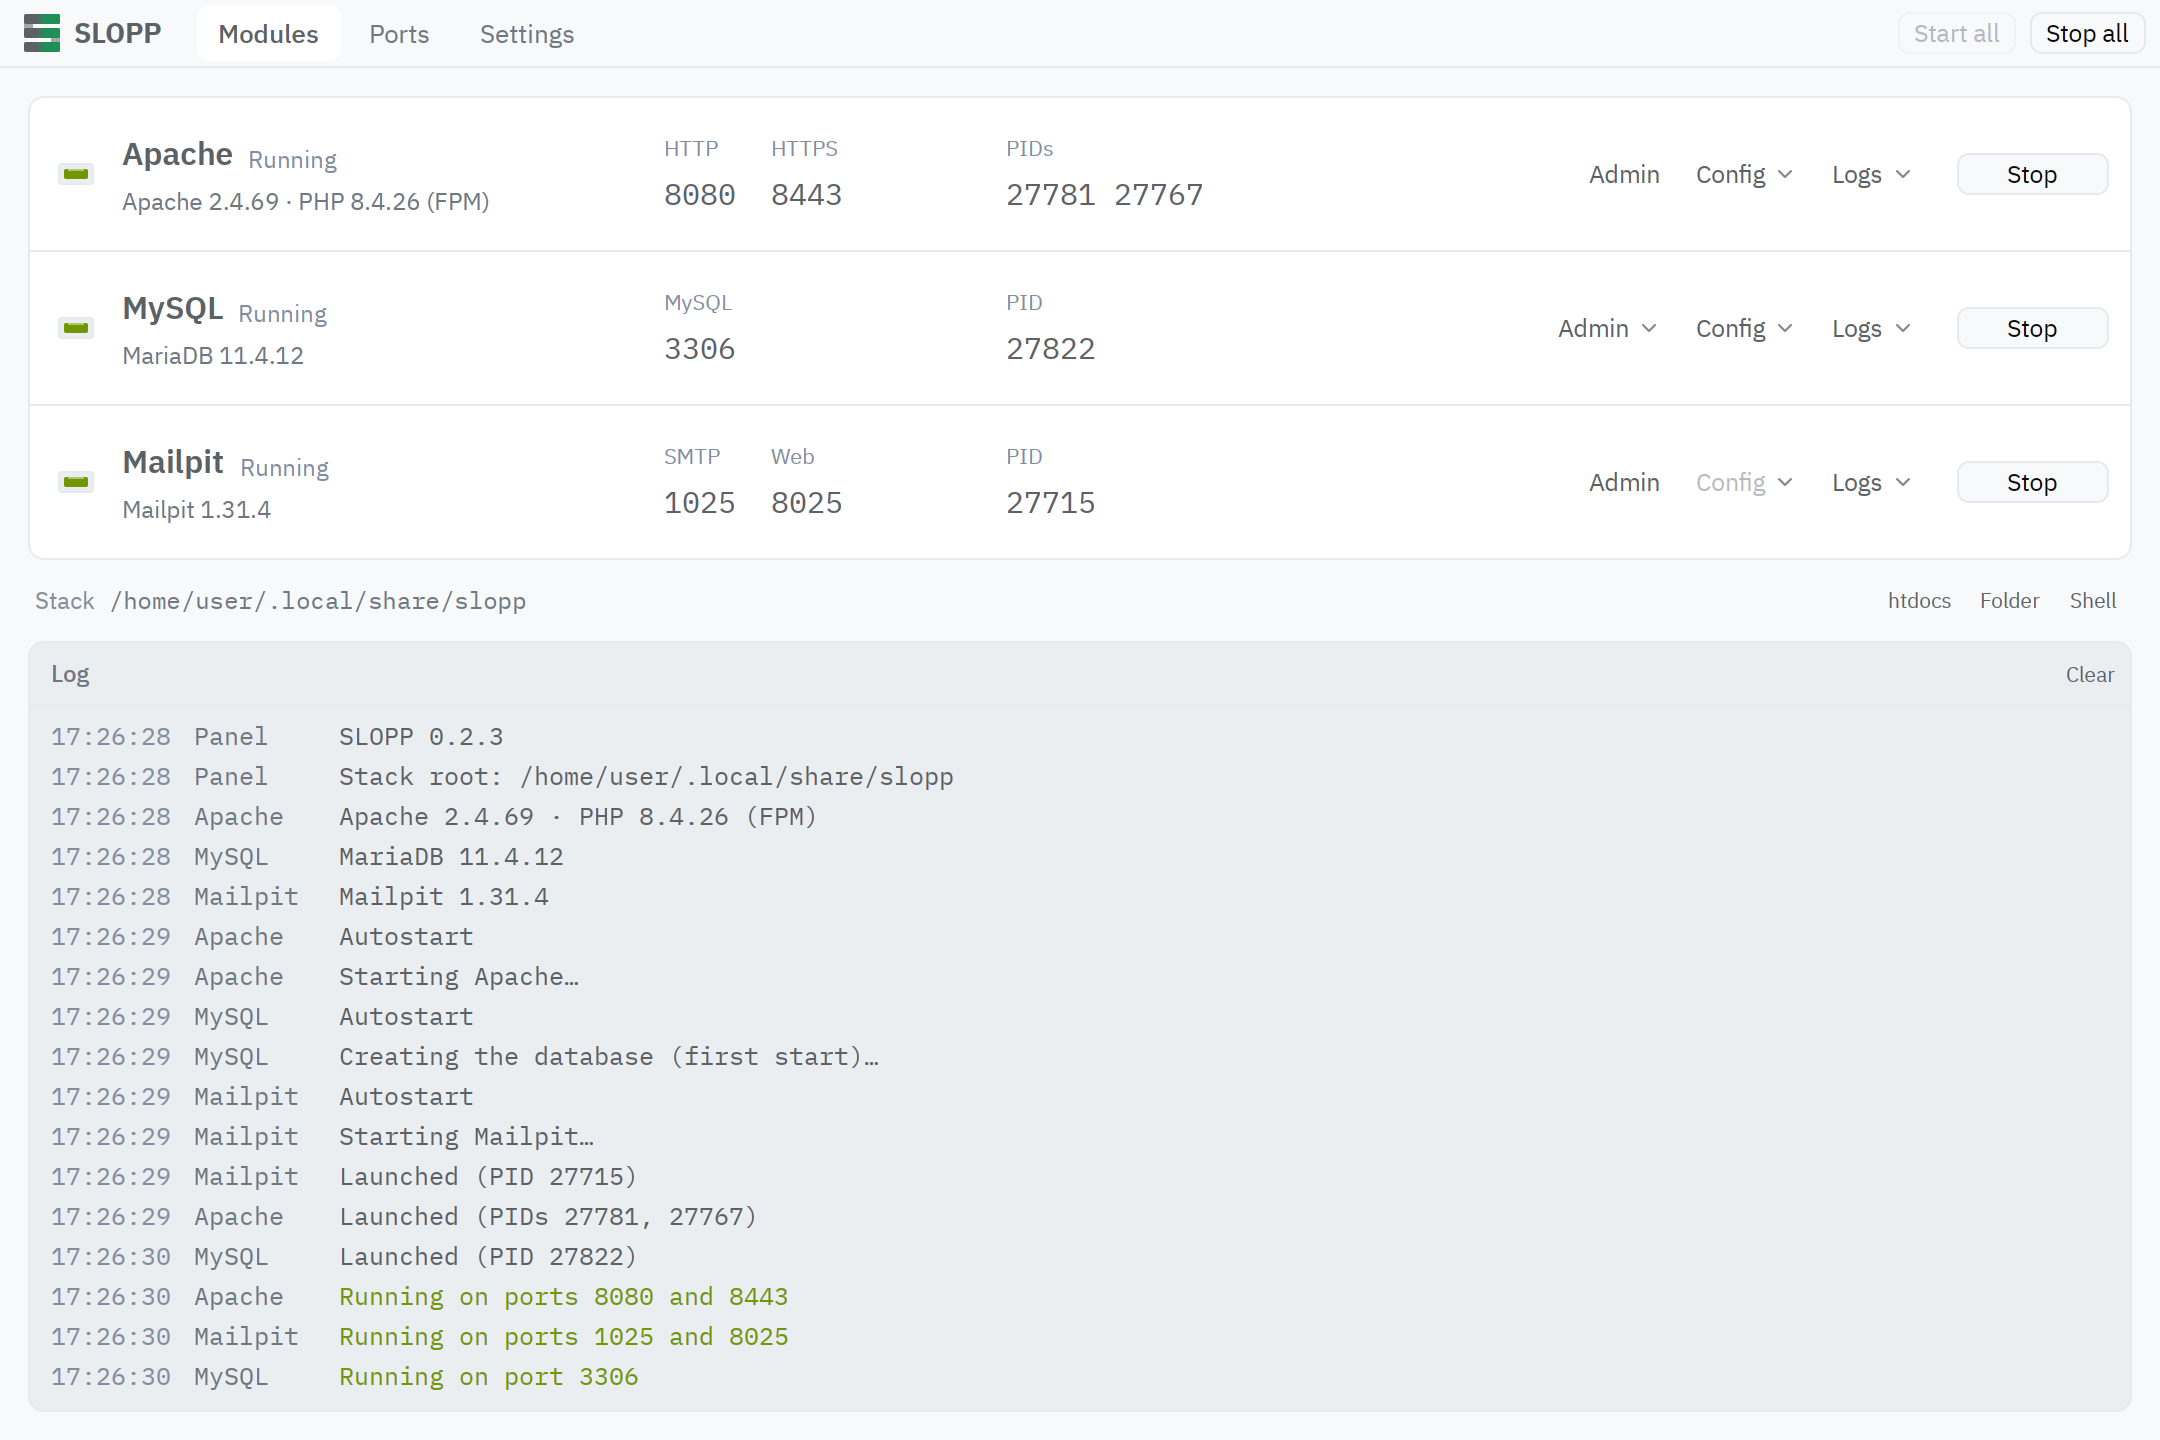
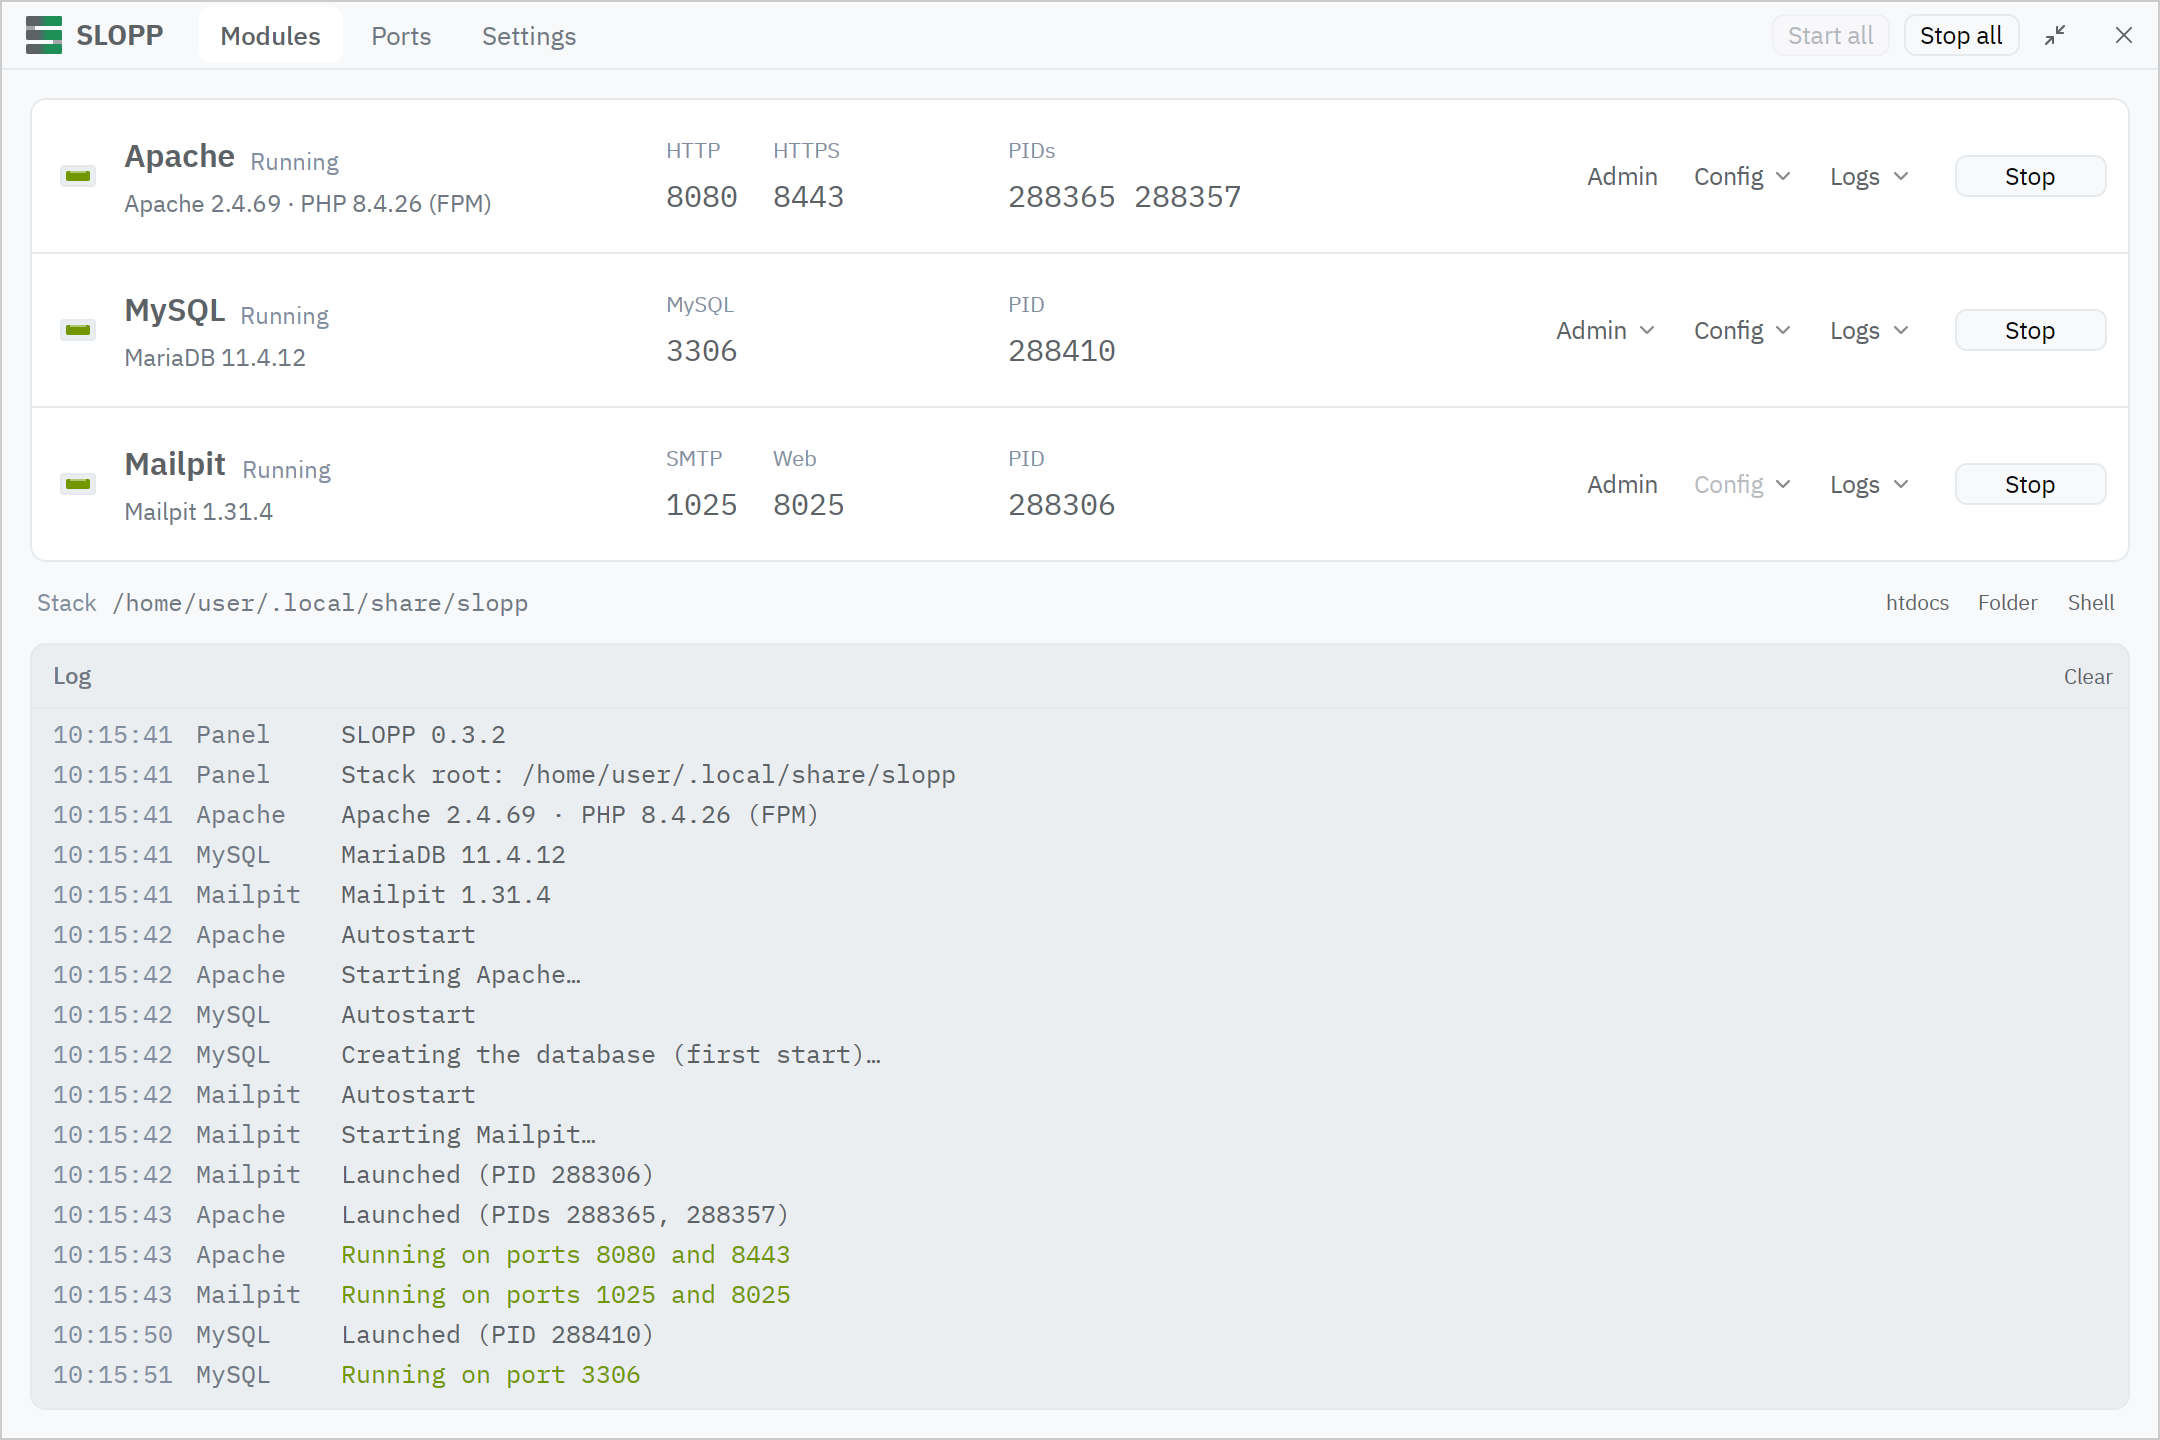
Refresh the site's screenshots for 0.3.2

diff --git a/site/index.html b/site/index.html
@@ -652,8 +652,8 @@ footer a { color: var(--text-2); }
         </div>
         <div class="content">
           <figure class="shot">
-            <a class="dark" href="panel-dark.png" title="Open full size"><img src="panel-dark.png" width="2160" height="1440" loading="lazy" alt="The SLOPP window in its dark appearance: Apache running on ports 8080 and 8443 with PHP 8.4 through PHP-FPM, MySQL running MariaDB on port 3306, Mailpit on ports 1025 and 8025, the stack folder, and a log of the start."></a>
-            <a class="light" href="panel-light.png" title="Open full size"><img src="panel-light.png" width="2160" height="1440" loading="lazy" alt="The SLOPP window in its light appearance: Apache running on ports 8080 and 8443 with PHP 8.4 through PHP-FPM, MySQL running MariaDB on port 3306, Mailpit on ports 1025 and 8025, the stack folder, and a log of the start."></a>
+            <a class="dark" href="panel-dark.png?v=0.3.2" title="Open full size"><img src="panel-dark.png?v=0.3.2" width="2160" height="1440" loading="lazy" alt="The SLOPP window in its dark appearance: Apache running on ports 8080 and 8443 with PHP 8.4 through PHP-FPM, MySQL running MariaDB on port 3306, Mailpit on ports 1025 and 8025, the stack folder, and a log of the start."></a>
+            <a class="light" href="panel-light.png?v=0.3.2" title="Open full size"><img src="panel-light.png?v=0.3.2" width="2160" height="1440" loading="lazy" alt="The SLOPP window in its light appearance: Apache running on ports 8080 and 8443 with PHP 8.4 through PHP-FPM, MySQL running MariaDB on port 3306, Mailpit on ports 1025 and 8025, the stack folder, and a log of the start."></a>
           </figure>
           <p class="shot-hint">Tap it for full size.</p>
         </div>

diff --git a/CLAUDE.md b/CLAUDE.md
@@ -28,7 +28,7 @@ nix build                                                               # result
 - Releases: bump `version` in the workspace `Cargo.toml`, then push a matching tag (`git tag v0.2.0 && git push origin v0.2.0`). `.github/workflows/release.yml` builds a Linux x86_64 AppImage and tarball (plain cargo on Ubuntu 24.04, so glibc ≥ 2.39), an Apple silicon dmg and a Windows x86_64 Inno Setup installer and zip, and publishes them as a GitHub release; a tag that doesn't match the version fails the run. "Run workflow" builds without releasing, all platforms or one (`gh workflow run release.yml --ref <branch> -f platforms=windows`).
 - Debug builds: `.github/workflows/debug.yml` runs only by hand ("Run workflow", or `gh workflow run debug.yml --ref <branch> -f platforms=linux|macos|windows|all`) and attaches the dev-profile binaries with their debug info (`.dSYM` on macOS, `.pdb` on Windows) to the run for 14 days. It restores CI's check-job cache (read-only, `shared-key: check`), so its build environment must stay the same as CI's.
 - CI: `.github/workflows/ci.yml` runs on every branch push (and on pull requests from forks): `fmt --check`, `clippy -D warnings` and the workspace tests on Linux, macOS and Windows, then `crates/slopp-core/tests/servers.rs` against apt's servers (PHP-FPM and mod_php), Homebrew's (Homebrew httpd with mod_php, Apple's httpd with PHP-FPM) and winget's on Windows (the Install button's packages, with `--silent`; the image's own Apache Lounge build in `C:\tools\Apache24` when winget's `ApacheLounge.httpd` doesn't match its download, never an unchecked download; the job drops the image's own PHP, Apache and MySQL from `PATH`, so SLOPP finds winget's through `winget::program_dirs`). The server tests are `#[ignore]`d so a plain `cargo test` never launches servers; they start Apache, PHP and MariaDB in temporary roots on free ports, print the servers' logs when they fail, and stop everything even then. Inside the Nix shell they find the servers on PATH; outside it, Ubuntu's `apache2 php-fpm php-mysql mariadb-server` (plus `libapache2-mod-php` for mod_php) work too.
-- Website: `site/` is a static one-page site (`index.html` with inline CSS/JS, no build), deployed by Vercel (project `slopp`, https://slopp.gs0.me; gs0.me's DNS is on Cloudflare, with a DNS-only CNAME to Vercel): the root `vercel.json` serves `site/` as is, sets its headers, and skips Git deploys for commits that touch none of `site/`, `vercel.json` and `.vercelignore`; `.vercelignore` keeps `vercel deploy` from the repo root to those two. Vercel Web Analytics is on: the page loads `/_vercel/insights/script.js`, which only exists on Vercel (a local preview 404s it, harmlessly). The page is drawn as the panel's own window on a desktop backdrop, so keep it in step with the app's views: a sticky title bar (brand, tabs as section links, the System/Dark/Light appearance as a segmented control), a working demo of the rack (`views/rack.rs`: bezel LEDs, readings, Admin, Start/Stop) feeding a log like `views/console.rs`, beside a mock browser the Admin buttons open (a `mail.php` whose `mail()` lands in a Mailpit inbox, and phpMyAdmin; each page fails as the real one would while its servers are stopped), then settings-style groups (`views/settings.rs`' 220px label column) and a status-bar footer. It reuses the panel's Ayu palette tokens, sizes and IBM Plex (woff2 made from `assets/fonts` with `woff2_compress`); the appearance script in `<head>` sets `data-theme` before first paint, remembered in `localStorage`; light styles key on `[data-theme="light"]`, and the screenshot swaps with it. The intro's big mark (its units toggle the demo, like the tray) and the title bar's small one redraw `tray::icon`'s geometry in SVG with live lamps, as `brand::mark` does, so keep them in step if the mark changes. Download links start at `releases/latest` and the page swaps in the asset URLs from the GitHub API, matched by file-name suffix (`linux-x86_64.AppImage`, `macos-arm64.dmg`, `windows-x86_64-setup.exe`, …), so keep those suffixes stable. `panel-dark.png`/`panel-light.png` are 2160×1440 shots from the headless sway setup below, run in `bwrap` with `/home` a tmpfs and `HOME=/home/user` (bind `~/.cargo` back in: debug builds read gpui-kit's icons from the registry at runtime), with autostart of all three modules on 8080/8443/3306/1025/8025 (`grim` by its full path: the dev shell's `PATH` replaces sway's), then `oxipng -o 4 --strip safe`.
+- Website: `site/` is a static one-page site (`index.html` with inline CSS/JS, no build), deployed by Vercel (project `slopp`, https://slopp.gs0.me; gs0.me's DNS is on Cloudflare, with a DNS-only CNAME to Vercel): the root `vercel.json` serves `site/` as is, sets its headers, and skips Git deploys for commits that touch none of `site/`, `vercel.json` and `.vercelignore`; `.vercelignore` keeps `vercel deploy` from the repo root to those two. Vercel Web Analytics is on: the page loads `/_vercel/insights/script.js`, which only exists on Vercel (a local preview 404s it, harmlessly). The page is drawn as the panel's own window on a desktop backdrop, so keep it in step with the app's views: a sticky title bar (brand, tabs as section links, the System/Dark/Light appearance as a segmented control), a working demo of the rack (`views/rack.rs`: bezel LEDs, readings, Admin, Start/Stop) feeding a log like `views/console.rs`, beside a mock browser the Admin buttons open (a `mail.php` whose `mail()` lands in a Mailpit inbox, and phpMyAdmin; each page fails as the real one would while its servers are stopped), then settings-style groups (`views/settings.rs`' 220px label column) and a status-bar footer. It reuses the panel's Ayu palette tokens, sizes and IBM Plex (woff2 made from `assets/fonts` with `woff2_compress`); the appearance script in `<head>` sets `data-theme` before first paint, remembered in `localStorage`; light styles key on `[data-theme="light"]`, and the screenshot swaps with it. The intro's big mark (its units toggle the demo, like the tray) and the title bar's small one redraw `tray::icon`'s geometry in SVG with live lamps, as `brand::mark` does, so keep them in step if the mark changes. Download links start at `releases/latest` and the page swaps in the asset URLs from the GitHub API, matched by file-name suffix (`linux-x86_64.AppImage`, `macos-arm64.dmg`, `windows-x86_64-setup.exe`, …), so keep those suffixes stable. `panel-dark.png`/`panel-light.png` are 2160×1440 shots from the headless sway setup below (but with `output * resolution 2160x1440 scale 2`: sway tiles the window to fill the output), run in `bwrap` with `/home` a tmpfs and `HOME=/home/user` (bind `~/.cargo` back in: debug builds read gpui-kit's icons from the registry at runtime), with autostart of all three modules on 8080/8443/3306/1025/8025 (`grim` by its full path: the dev shell's `PATH` replaces sway's), then `oxipng -o 4 --strip safe`; bump the `?v=` on their `<img>`/`<a>` URLs, since PNGs are cached for a day.
 - Try the stack without the GUI: `SLOPP_ROOT=<dir> XDG_CONFIG_HOME=<dir> sloppctl start|stop|status|ports|paths|install-phpmyadmin|install-adminer|install-servers`.
 
 ## Running and inspecting the UI
